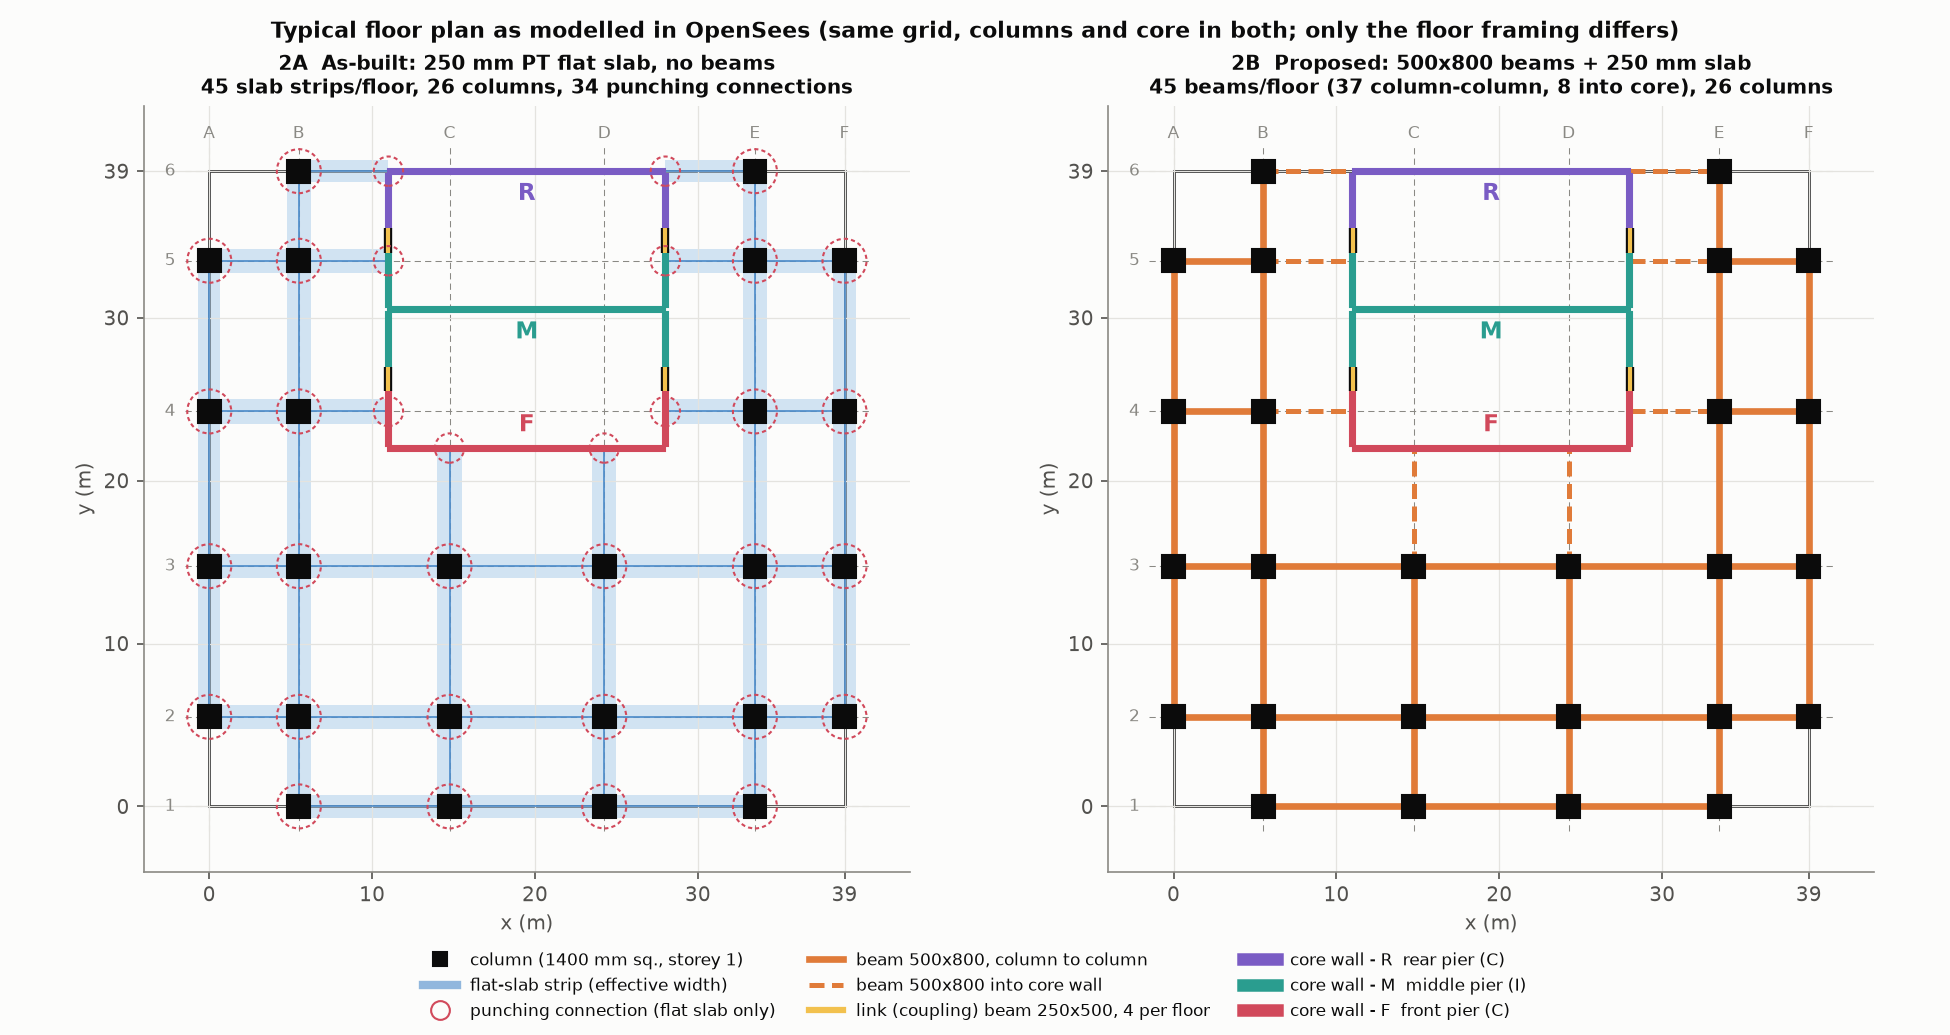
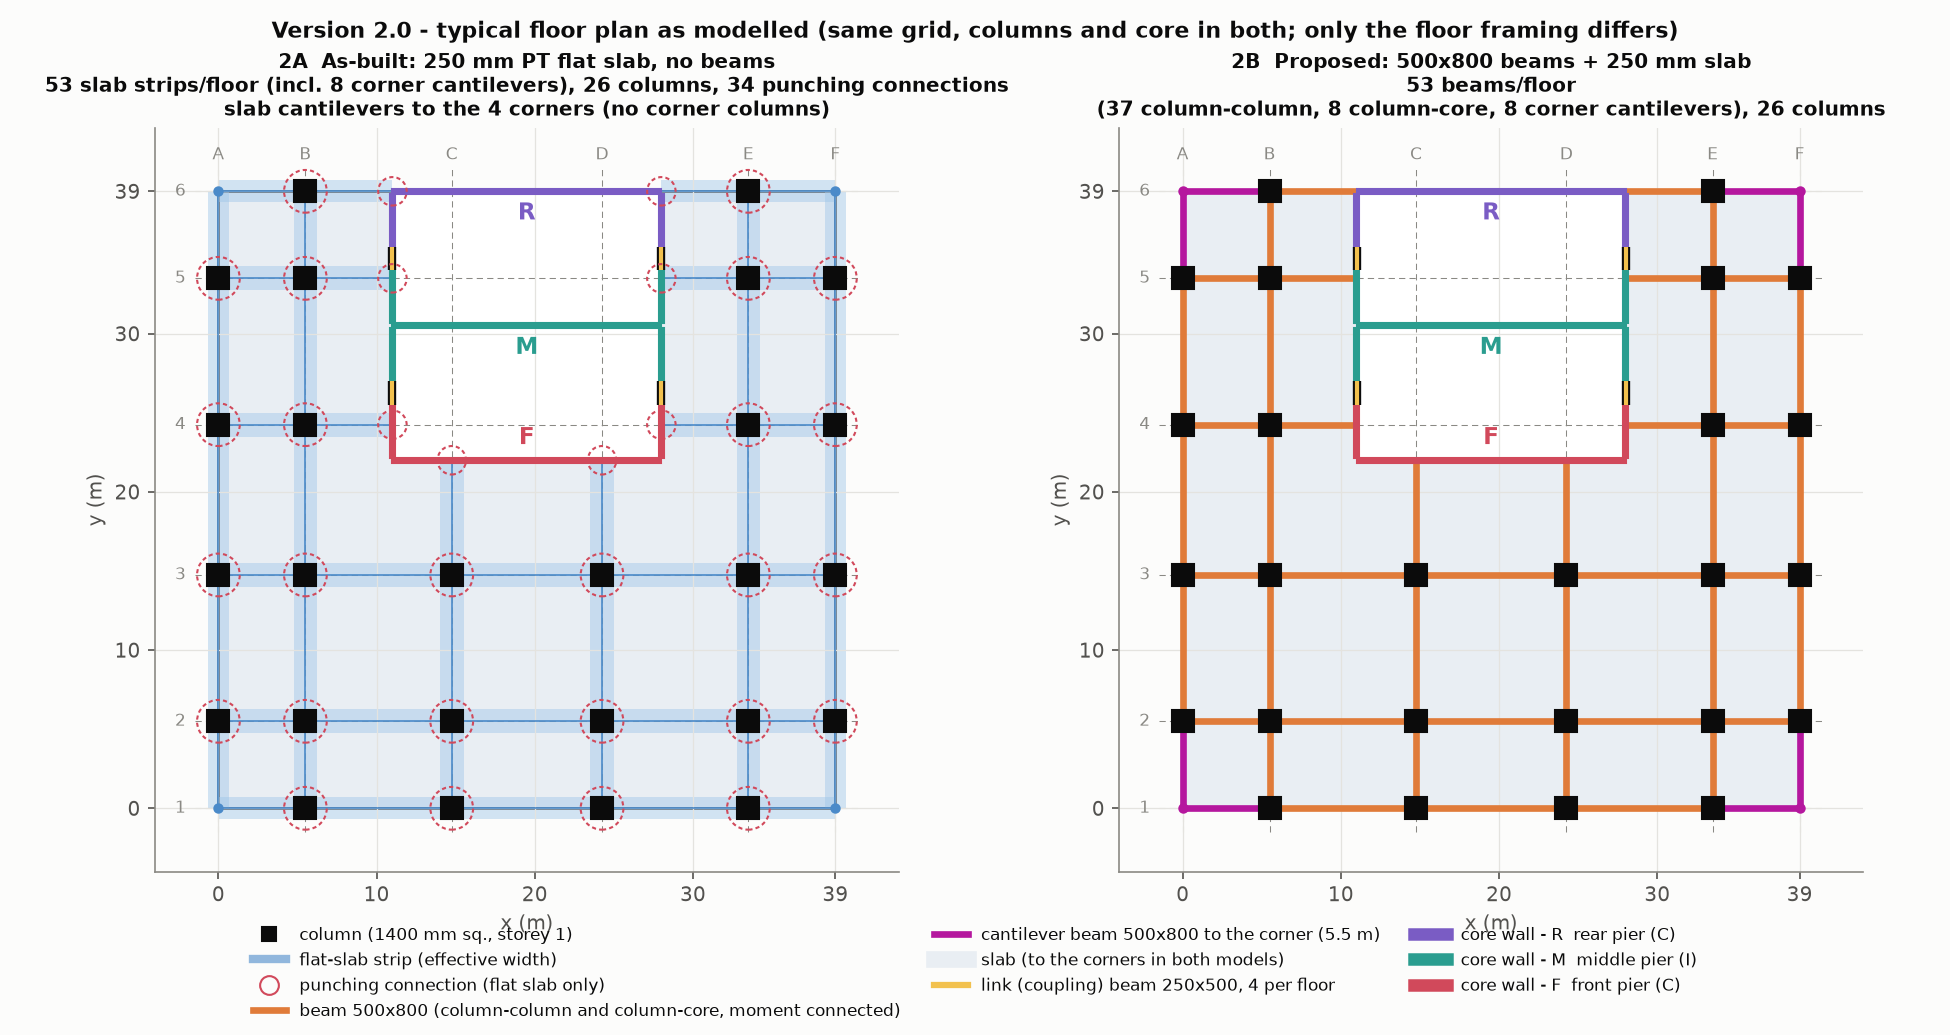
Version 2.0 geometry: corner cantilevers (no corner columns) in both models, beams into core fully moment-connected, 250 mm slab in both; plan drawing from the model
Claude-Session: https://claude.ai/code/session_01BC3mJNgnAnFkLpRTHoL5vQ

diff --git a/phase2_opensees_2.0/plot_floor_plans.py b/phase2_opensees_2.0/plot_floor_plans.py
@@ -1,4 +1,5 @@
 """
+VERSION 2.0 (corner cantilevers, all beams moment-connected, 250 mm slab in both models).
 BOTH MODELS - typical floor plans drawn directly from the OpenSees model data
 (column nodes, core wall segments, link beams, slab strips / beams), so the sketch shows
 exactly what is analysed.  Output: figures/fig00_floor_plans.png
@@ -10,6 +11,7 @@ from matplotlib.patches import Rectangle, Circle, Polygon
 
 from sao import config as C
 from sao import plotting as P
+from sao.building_common import CORNERS
 from sao.capacities import pier_segments, core_points, COUPLING_BEAMS, CONN_POINTS, PIERS
 from sao.design import load_design
 from sao.registry import model_class
@@ -21,6 +23,8 @@ PIER_NAME = {"R": "R  rear pier (C)", "M": "M  middle pier (I)", "F": "F  front 
 
 def end_xy(b, end, cp):
     kind, ref = end
+    if kind == "corner":
+        return CORNERS[ref]
     if kind == "col":
         c = b.cols[ref]
         return c["x"], c["y"]
@@ -31,6 +35,10 @@ def draw(ax, cfg):
     b = model_class(cfg)(variant_from_name(f"{cfg}-REF"), load_design(), mode="elastic").build()
     cp = core_points()
     L = C.PLAN
+    # slab: covers the whole 39 x 39 m plate to the corners (both models), shafts excluded
+    ax.add_patch(Rectangle((0, 0), L, L, color="#e9eef3", lw=0, zorder=0))
+    cc = C.CORE
+    ax.add_patch(Rectangle((cc["x0"], cc["y0"]), cc["x1"] - cc["x0"], cc["y1"] - cc["y0"], color="white", lw=0, zorder=0))
     ax.add_patch(Rectangle((0, 0), L, L, fill=False, lw=1.2, ec=P.INK))
     for g in C.GRID:                                            # grid lines
         ax.plot([g, g], [-1.5, L + 1.5], color=P.MUTED, lw=0.5, ls=(0, (6, 4)), zorder=0)
@@ -51,9 +59,10 @@ def draw(ax, cfg):
                                        alpha=0.45, lw=0, zorder=1))
             ax.plot([xa, xb], [ya, yb], color="#4a8ac9", lw=0.8, zorder=2)
         else:
-            to_core = "core" in (sg["a"][0], sg["b"][0])
-            ax.plot([xa, xb], [ya, yb], color="#e07b39", lw=3.2 if not to_core else 2.4,
-                    ls="-" if not to_core else (0, (3, 1.5)), solid_capstyle="butt", zorder=2)
+            ax.plot([xa, xb], [ya, yb], color="#b5179e" if sg.get("cantilever") else "#e07b39", lw=3.2,
+                    solid_capstyle="butt", zorder=2)
+    for (cx, cy) in CORNERS:                                  # free corner nodes
+        ax.plot(cx, cy, "o", color="#b5179e" if cfg == "B" else "#4a8ac9", ms=4, zorder=8)
     # core walls
     for p in PIERS:
         t = b.pier_info[(1, p)]["t"]
@@ -90,15 +99,19 @@ def draw(ax, cfg):
     ax.set_ylabel("y (m)")
     if cfg == "A":
         ax.set_title(f"2A  As-built: {C.SLAB_T_FLAT * 1000:.0f} mm PT flat slab, no beams\n"
-                     f"{len(b.segments)} slab strips/floor, {len(b.cols)} columns, "
-                     f"{len(b.cols) + len(CONN_POINTS)} punching connections", fontsize=9.5)
+                     f"{len(b.segments)} slab strips/floor (incl. 8 corner cantilevers), {len(b.cols)} columns, "
+                     f"{len(b.cols) + len(CONN_POINTS)} punching connections\nslab cantilevers to the 4 corners (no corner columns)", fontsize=9.5)
     else:
         nc = sum(1 for sg in b.segments if "core" in (sg["a"][0], sg["b"][0]))
+        nk = sum(1 for sg in b.segments if sg.get("cantilever"))
         ax.set_title(f"2B  Proposed: {C.BEAM_B * 1000:.0f}x{C.BEAM_H * 1000:.0f} beams + "
-                     f"{C.SLAB_T_BEAM * 1000:.0f} mm slab\n{len(b.segments)} beams/floor "
-                     f"({len(b.segments) - nc} column-column, {nc} into core), {len(b.cols)} columns",
-                     fontsize=9.5)
+                     f"{C.SLAB_T_BEAM * 1000:.0f} mm slab\n{len(b.segments)} beams/floor"
+                     f"\n({len(b.segments) - nc - nk} column-column, {nc} column-core, {nk} corner cantilevers), "
+                     f"{len(b.cols)} columns", fontsize=9.5)
     return b
+
+
+OUT = 'figures/fig00_floor_plans.png'
 
 
 def main():
@@ -109,15 +122,16 @@ def main():
          plt.Line2D([], [], color="#4a8ac9", lw=4, alpha=0.6, label="flat-slab strip (effective width)"),
          plt.Line2D([], [], color="#d1495b", ls=(0, (2, 1.5)), marker="o", mfc="none", ms=9, lw=0,
                     label="punching connection (flat slab only)"),
-         plt.Line2D([], [], color="#e07b39", lw=3.2, label="beam 500x800, column to column"),
-         plt.Line2D([], [], color="#e07b39", lw=2.4, ls=(0, (3, 1.5)), label="beam 500x800 into core wall"),
+         plt.Line2D([], [], color="#e07b39", lw=3.2, label="beam 500x800 (column-column and column-core, moment connected)"),
+         plt.Line2D([], [], color="#b5179e", lw=3.2, label="cantilever beam 500x800 to the corner (5.5 m)"),
+         plt.Line2D([], [], color="#e9eef3", lw=8, label="slab (to the corners in both models)"),
          plt.Line2D([], [], color="#f2c14e", lw=3, label="link (coupling) beam 250x500, 4 per floor")]
     h += [plt.Line2D([], [], color=PIER_COL[p], lw=6, label=f"core wall - {PIER_NAME[p]}") for p in PIERS]
     fig.legend(handles=h, loc="lower center", ncol=3, fontsize=8, frameon=False)
-    fig.suptitle("Typical floor plan as modelled in OpenSees (same grid, columns and core in both; "
+    fig.suptitle("Version 2.0 - typical floor plan as modelled (same grid, columns and core in both; "
                  "only the floor framing differs)", fontsize=10.5, fontweight="bold")
     fig.tight_layout(rect=(0, 0.13, 1, 0.96))
-    fig.savefig("figures/fig00_floor_plans.png", dpi=150)
+    fig.savefig(OUT, dpi=150)
 
 
 if __name__ == "__main__":

diff --git a/phase2_opensees_2.0/sao/building_common.py b/phase2_opensees_2.0/sao/building_common.py
@@ -38,6 +38,7 @@ Node-numbering scheme (level i = 0..33, 0 = base)
     300000 + 1000 i + k   core pier centroid, k = 0 R, 1 M, 2 F   (both)
     400000 + 1000 i + k   point on a core wall (rigid-arm end)    (both)
     500000 + 1000 i + k   slab node at a core-wall connection     (flat slab only)
+    600000 + 1000i + k    free corner node k of floor i (v2.0)     (both)
     900000 + i            diaphragm master node of floor i        (both)
 
 Units: kN, m, s, tonne.
@@ -63,6 +64,9 @@ class TagGen:
     def __call__(self):
         self.n += 1
         return self.n
+
+
+CORNERS = [(0.0, 0.0), (C.PLAN, 0.0), (0.0, C.PLAN), (C.PLAN, C.PLAN)]   # version 2.0
 
 
 class SAOBuildingBase:
@@ -91,6 +95,7 @@ class SAOBuildingBase:
         self.ncol = len(self.cols)
         # node dictionaries
         self.Nc, self.Ns, self.P, self.W, self.Nsc, self.master = {}, {}, {}, {}, {}, {}
+        self.K = {}               # version 2.0: free corner nodes (tips of the corner cantilevers)
         # element registries used by the analyses / failure monitors
         self.col_ele, self.pier_ele, self.pier_info = {}, {}, {}
         self.cb_ele, self.cb_info = {}, {}
@@ -154,6 +159,10 @@ class SAOBuildingBase:
                 n = 400000 + i * 1000 + k
                 ops.node(n, x, y, z)
                 self.W[(i, name)] = n
+            for k, (x, y) in enumerate(CORNERS):                # version 2.0: plan corners (no column)
+                n = 600000 + i * 1000 + k
+                ops.node(n, x, y, z)
+                self.K[(i, k)] = n
             self._floor_nodes(i)                                # extra nodes of the framing type
             m = 900000 + i                                      # diaphragm master node
             ops.node(m, C.PLAN / 2, C.PLAN / 2, z)
@@ -495,6 +504,12 @@ class SAOBuildingBase:
         pts.sort(key=lambda a: a[0])
         return pts
 
+    def _col_at(self, x, y):
+        for c, col in enumerate(self.cols):
+            if abs(col["x"] - x) < 1e-6 and abs(col["y"] - y) < 1e-6:
+                return c
+        raise ValueError(f"no column at ({x}, {y})")
+
     def _build_segments(self):
         """Spans along every column line between supports (columns or core walls).
 
@@ -513,6 +528,23 @@ class SAOBuildingBase:
                         continue                       # span inside the core: no member
                     segs.append(dict(dir=direction, coord=coord, s0=s0, s1=s1, a=a, b=b, L=s1 - s0,
                                      l2=0.5 * (lo + hi), perim=li in (0, len(g) - 1)))
+        # version 2.0: the plan corners have no columns; the floor (slab strip in the flat slab,
+        # 500 x 800 beam in the beam-slab) cantilevers from the nearest edge column to each corner
+        # along both edges (8 cantilevers per floor, 5.5 m each)
+        for k, (cx, cy) in enumerate(CORNERS):
+            for direction in ("x", "y"):
+                if direction == "x":
+                    coord, s_c = cy, cx
+                    s_col = g[1] if cx == 0 else g[-2]
+                    col = self._col_at(s_col, cy)
+                else:
+                    coord, s_c = cx, cy
+                    s_col = g[1] if cy == 0 else g[-2]
+                    col = self._col_at(cx, s_col)
+                ends = sorted([(s_c, ("corner", k)), (s_col, ("col", col))], key=lambda e: e[0])
+                segs.append(dict(dir=direction, coord=coord, s0=ends[0][0], s1=ends[1][0], a=ends[0][1],
+                                 b=ends[1][1], L=abs(s_col - s_c), l2=0.5 * (g[1] - g[0]), perim=True,
+                                 cantilever=True))
         for k, sgm in enumerate(segs):
             sgm["id"] = k
         self.segments = segs
@@ -538,6 +570,7 @@ class SAOBuildingBase:
         for i in range(1, C.N_STORY + 1):
             slaves = [self.Nc[(i, c)] for c in range(self.ncol)] + [self.P[(i, p)] for p in PIERS]
             slaves += self._diaphragm_extra_slaves(i)
+            slaves += [self.K[(i, k)] for k in range(len(CORNERS))]
             ops.rigidDiaphragm(3, self.master[i], *slaves)
 
     # ====================================================================================

diff --git a/phase2_opensees_2.0/phase2B_proposed_beamslab_model.py b/phase2_opensees_2.0/phase2B_proposed_beamslab_model.py
@@ -62,6 +62,8 @@ class ProposedBeamSlabModel(SAOBuildingBase):
     def _end_node(self, i, end):
         """Beams connect directly to the column nodes and to the core-wall attachment nodes."""
         kind, key = end
+        if kind == "corner":                 # version 2.0: free tip of a corner cantilever beam
+            return self.K[(i, key)]
         return self.Nc[(i, key)] if kind == "col" else self.W[(i, key)]
 
     def _floor_system(self):
@@ -72,12 +74,10 @@ class ProposedBeamSlabModel(SAOBuildingBase):
                 ni, nj = self._end_node(i, sg["a"]), self._end_node(i, sg["b"])
                 As_top, As_bot = self.design["beam_As"][zone]["perim" if sg["perim"] else "int"]
                 pr = beam_section(As_top, As_bot)
+                # version 2.0: every beam, including those framing into the core walls, is a
+                # normal moment-connected beam with its full hinge capacity at both ends
                 Mp_i = Mp_j = pr["My_pos"]
                 Mn_i = Mn_j = pr["My_neg"]
-                if sg["a"][0] == "core":            # beam end at a thin core wall
-                    Mp_i, Mn_i = 0.25 * Mp_i, 0.25 * Mn_i
-                if sg["b"][0] == "core":
-                    Mp_j, Mn_j = 0.25 * Mp_j, 0.25 * Mn_j
                 tag = self.ele()
                 self.hinged_member(tag, ni, nj, pr["E"], pr["A"], pr["Iy"], pr["Iz"], pr["J"], pr["lp"],
                                    Mp_i, Mn_i, Mp_j, Mn_j, pr["th_p"], pr["th_pc"], pr["res"], (0.8, 0.3))

diff --git a/phase2_opensees_2.0/phase2A_asbuilt_flatslab_model.py b/phase2_opensees_2.0/phase2A_asbuilt_flatslab_model.py
@@ -83,6 +83,8 @@ class AsBuiltFlatSlabModel(SAOBuildingBase):
     def _end_node(self, i, end):
         """Slab strips connect to the SLAB nodes (not directly to columns / walls)."""
         kind, key = end
+        if kind == "corner":                 # version 2.0: free tip of a corner cantilever strip
+            return self.K[(i, key)]
         return self.Ns[(i, key)] if kind == "col" else self.Nsc[(i, key)]
 
     def _diaphragm_extra_slaves(self, i):
